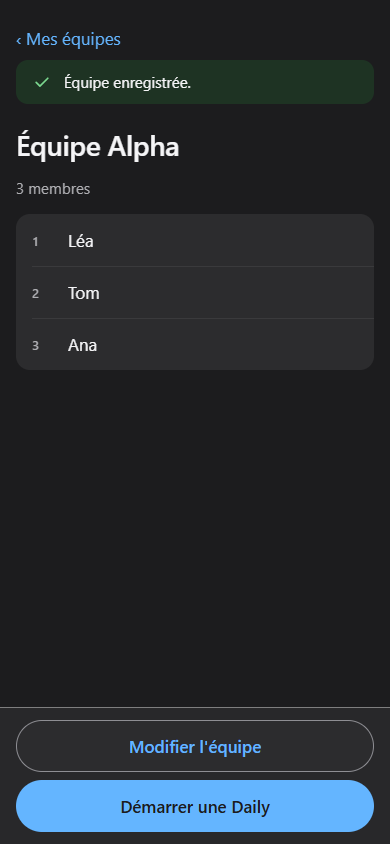
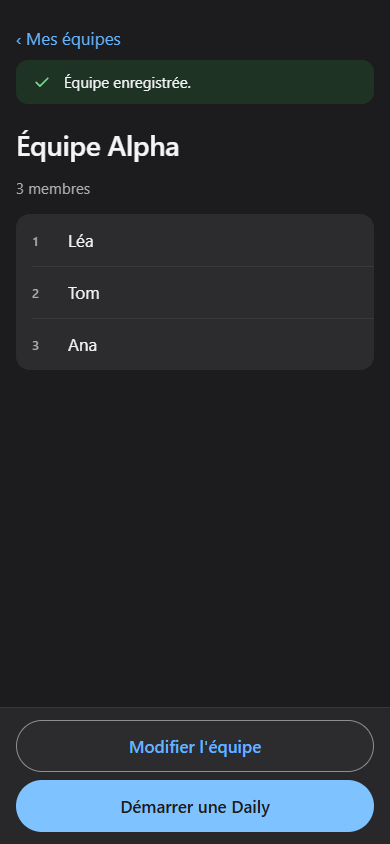
Filet de la barre d'actions : jeton --material-edge, 0,4 clair et 0,08 sombre (m-1)
Le filet mobile était en dur à 0,4 blanc dans les deux thèmes, alors que le
design v3 demande 0,08 en sombre. Rétablit le jeton --material-edge (0,4 clair,
0,08 sombre) et l'utilise à la place de la valeur en dur.

Un test e2e vérifie la couleur calculée du filet dans les deux thèmes ; il
échouait avec la valeur en dur (0,4 au lieu de 0,08). Capture sombre mobile
régénérée (03-presentation-dark-mobile.png).

Changed region(s): [[0.0308, 0.9242, 0.9538, 0.9858]]

diff --git a/e2e/parcours.spec.ts b/e2e/parcours.spec.ts
@@ -392,6 +392,19 @@ test('contraste : le texte du bouton principal atteint 4,5:1 dans les deux thèm
   expect(await contrastOf(primary)).toBeGreaterThanOrEqual(4.5);
 });
 
+test('filet de la barre d\'actions mobile : jeton --material-edge, 0,4 en clair et 0,08 en sombre (m-1, design v3 section 2)', async ({ page }) => {
+  await page.setViewportSize({ width: 375, height: 812 });
+  await page.emulateMedia({ colorScheme: 'light' });
+  await page.goto('./');
+  await createTeam(page, 'Équipe Filet', ['Léa', 'Tom']);
+  const bar = page.locator('.action-bar').first();
+  await expect(bar).toBeVisible();
+  const edge = (): Promise<string> => bar.evaluate((el) => getComputedStyle(el).borderTopColor);
+  expect(await edge()).toBe('rgba(255, 255, 255, 0.4)');
+  await page.emulateMedia({ colorScheme: 'dark' });
+  expect(await edge()).toBe('rgba(255, 255, 255, 0.08)');
+});
+
 test('suppression d\'équipe depuis Mes équipes, avec confirmation (S21)', async ({ page }) => {
   await page.goto('./');
   await createTeam(page, 'Équipe Supp', ['Léa', 'Tom']);

diff --git a/src/styles.css b/src/styles.css
@@ -23,6 +23,8 @@
   --color-focus: #0066cc;
   --color-scrim: rgba(29, 29, 31, 0.32);
   --color-material: rgba(255, 255, 255, 0.72);
+  /* Filet de lumière au bord supérieur de la barre d'actions (design v3, section 2). */
+  --material-edge: rgba(255, 255, 255, 0.4);
 
   /* Espace entre le bouton « Nouvelle équipe » et la liste (D48). */
   --space-cta-to-list: 16px;
@@ -70,6 +72,7 @@
     --color-focus: #64b5ff;
     --color-scrim: rgba(28, 28, 30, 0.6);
     --color-material: rgba(44, 44, 46, 0.72);
+    --material-edge: rgba(255, 255, 255, 0.08);
 
     --shadow-group: none;
     --shadow-raised: 0 0 0 0.5px rgba(255, 255, 255, 0.12), 0 16px 40px rgba(0, 0, 0, 0.5);
@@ -669,7 +672,7 @@ p {
     background: var(--color-material);
     backdrop-filter: var(--material-blur);
     -webkit-backdrop-filter: var(--material-blur);
-    border-top: 1px solid rgba(255, 255, 255, 0.4);
+    border-top: 1px solid var(--material-edge);
   }
 
   .action-bar .btn {
